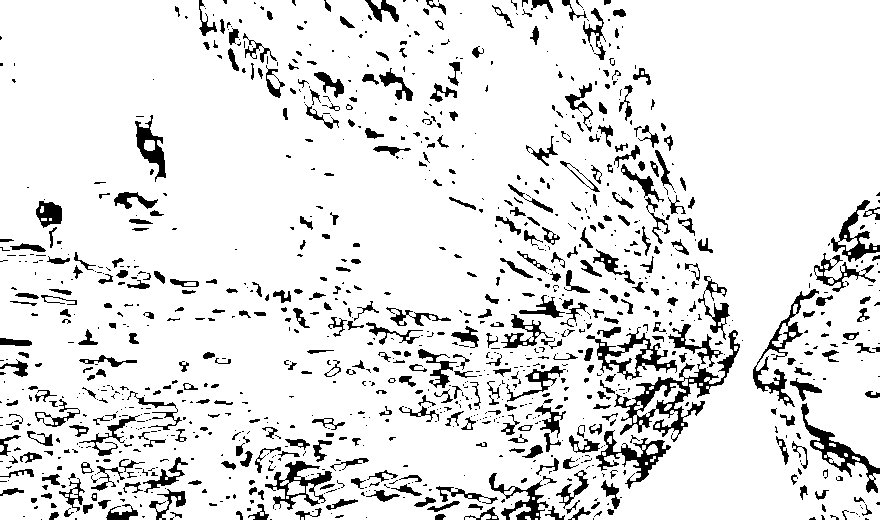
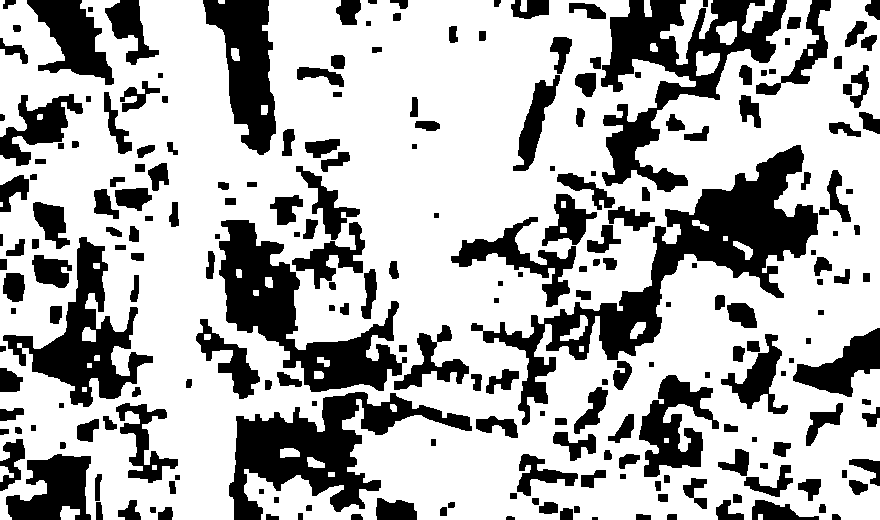
added simpler change detection algorithm

diff --git a/src/collapsedetection.py b/src/collapsedetection.py
@@ -8,9 +8,9 @@ def align_images(img1, img2):
     Rough alignment using ORB feature matching + homography.
     Works best when both images cover the same scene at slightly different angles.
     """
-    #ADDED
-    pre_path = r"C:\Users\user\CnDModel\data\pairs\pre\33.8325 35.51375 zoomed pre image up.png"
-    post_path = r"C:\Users\user\CnDModel\data\pairs\post\33.8325 35.51375 zoomed post image up.png"
+    # #ADDED
+    # pre_path = r"C:\Users\user\CnDModel\data\pairs\pre\33.8325 35.51375 zoomed pre image up.png"
+    # post_path = r"C:\Users\user\CnDModel\data\pairs\post\33.8325 35.51375 zoomed post image up.png"
     
     orb = cv2.ORB_create(5000)
     kp1, des1 = orb.detectAndCompute(img1, None)
@@ -77,6 +77,44 @@ def change_detection(pre_path, post_path, visualize=True):
     if visualize:
         cv2.imshow("Diff Map", diff)
         cv2.imshow("Threshold", thresh)
+        cv2.waitKey(0)
+        cv2.destroyAllWindows()
+
+    return thresh
+
+def simple_change_detection(pre_path, post_path, visualize=True):
+    pre = cv2.imread(pre_path)
+    post = cv2.imread(post_path)
+
+    # resize both to same size
+    h, w = pre.shape[:2]
+    post = cv2.resize(post, (w, h))
+
+    # convert to grayscale
+    pre_gray  = cv2.cvtColor(pre,  cv2.COLOR_BGR2GRAY)
+    post_gray = cv2.cvtColor(post, cv2.COLOR_BGR2GRAY)
+
+    # smooth to reduce small lighting/angle noise
+    pre_blur  = cv2.GaussianBlur(pre_gray,  (5, 5), 0)
+    post_blur = cv2.GaussianBlur(post_gray, (5, 5), 0)
+
+    # absolute difference
+    diff = cv2.absdiff(pre_blur, post_blur)
+
+    # normalize and threshold
+    diff_norm = cv2.normalize(diff, None, 0, 255, cv2.NORM_MINMAX)
+    _, thresh = cv2.threshold(diff_norm, 30, 255, cv2.THRESH_BINARY)
+
+    # clean small noise
+    kernel = np.ones((5, 5), np.uint8)
+    thresh = cv2.morphologyEx(thresh, cv2.MORPH_OPEN, kernel)
+    thresh = cv2.morphologyEx(thresh, cv2.MORPH_CLOSE, kernel)
+
+    if visualize:
+        cv2.imshow("Pre", pre)
+        cv2.imshow("Post", post)
+        cv2.imshow("Difference", diff_norm)
+        cv2.imshow("Thresholded Damage", thresh)
         cv2.waitKey(0)
         cv2.destroyAllWindows()
 

diff --git a/src/driver.py b/src/driver.py
@@ -9,7 +9,7 @@ post_path = "../data/images_coords/images/single/Single08HaretHreik.png"
 # Make sure results folder exists
 os.makedirs("results", exist_ok=True)
 
-mask = cd.change_detection(pre_path, post_path)
+mask = cd.simple_change_detection(pre_path, post_path)
 
 if mask is not None:
     cv2.imwrite("results/damage_mask01.png", mask)
